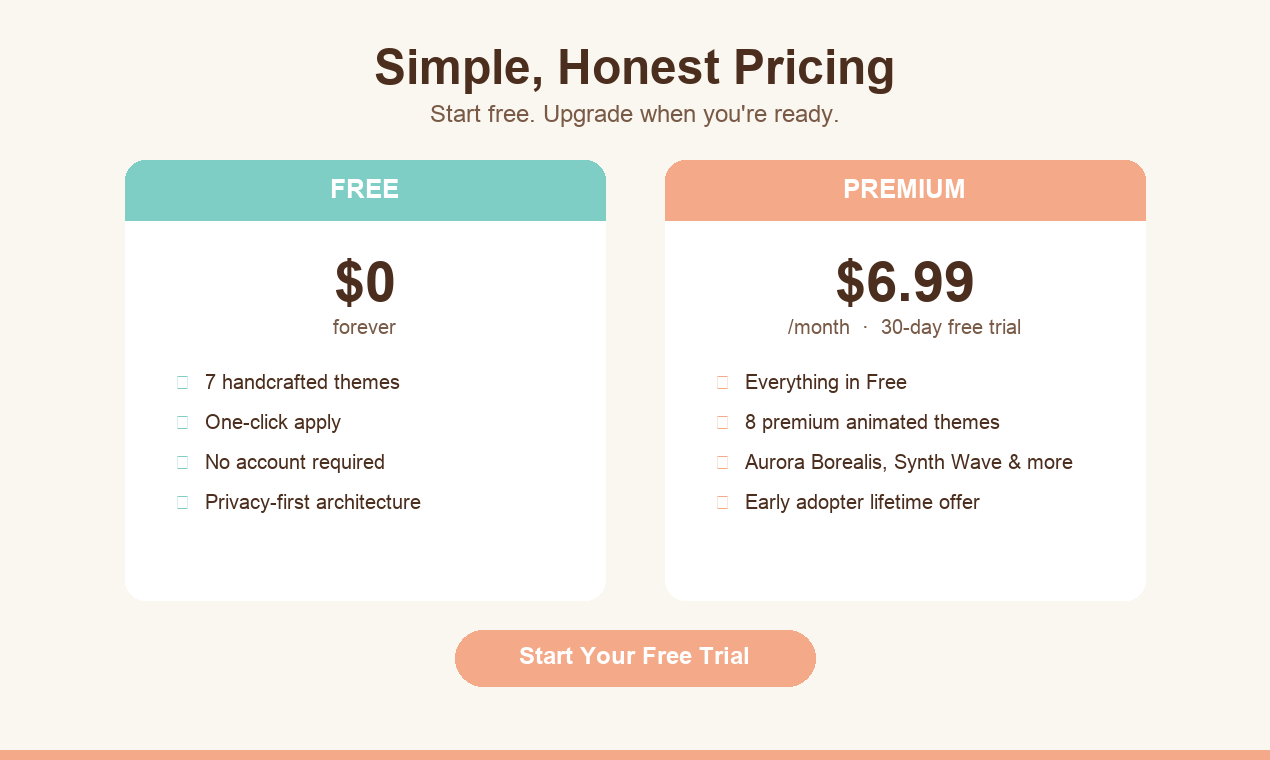
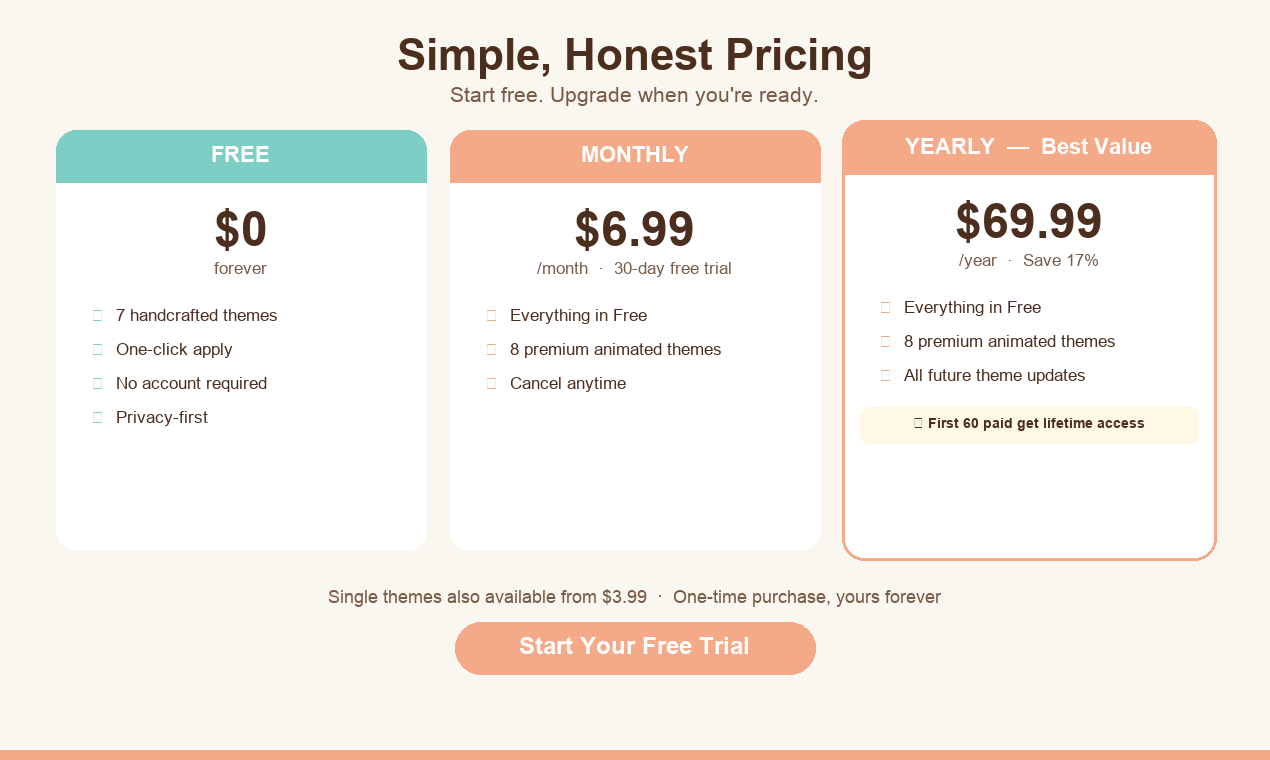
chore(launch): refresh pricing gallery and add GA4 pull script

diff --git a/scripts/pull_ga4.js b/scripts/pull_ga4.js
@@ -1,0 +1,84 @@
+const { GoogleAuth } = require('google-auth-library');
+
+function parseDateArg() {
+  const input = process.argv[2];
+  if (!input) {
+    return new Date().toISOString().slice(0, 10);
+  }
+  if (!/^\d{4}-\d{2}-\d{2}$/.test(input)) {
+    throw new Error('Date must be in YYYY-MM-DD format.');
+  }
+  return input;
+}
+
+async function main() {
+  const targetDate = parseDateArg();
+  const auth = new GoogleAuth({
+    scopes: ['https://www.googleapis.com/auth/analytics.readonly']
+  });
+
+  const client = await auth.getClient();
+  const token = await client.getAccessToken();
+  const accessToken = typeof token === 'string' ? token : token?.token;
+  if (!accessToken) {
+    throw new Error('Unable to acquire Google access token.');
+  }
+
+  const propertyId = '521095252';
+  const url = `https://analyticsdata.googleapis.com/v1beta/properties/${propertyId}:runReport`;
+
+  const headers = {
+    'Authorization': `Bearer ${accessToken}`,
+    'Content-Type': 'application/json'
+  };
+
+  const gate1Body = {
+    dateRanges: [{ startDate: targetDate, endDate: targetDate }],
+    dimensions: [{ name: 'sessionDefaultChannelGroup' }, { name: 'sessionMedium' }],
+    metrics: [{ name: 'sessions' }]
+  };
+
+  const res1 = await fetch(url, {
+    method: 'POST',
+    headers,
+    body: JSON.stringify(gate1Body)
+  });
+  
+  if (!res1.ok) {
+    console.error('Error fetching Gate 1:', await res1.text());
+  } else {
+    const data1 = await res1.json();
+    console.log('--- GATE 1: Traffic Acquisition ---');
+    console.log(JSON.stringify(data1, null, 2));
+  }
+
+  const gate3Body = {
+    dateRanges: [{ startDate: targetDate, endDate: targetDate }],
+    dimensions: [{ name: 'eventName' }],
+    metrics: [{ name: 'eventCount' }],
+    dimensionFilter: {
+      filter: {
+        fieldName: 'eventName',
+        inListFilter: {
+          values: ['trial_start', 'checkout_start', 'purchase_success']
+        }
+      }
+    }
+  };
+
+  const res3 = await fetch(url, {
+    method: 'POST',
+    headers,
+    body: JSON.stringify(gate3Body)
+  });
+
+  if (!res3.ok) {
+    console.error('Error fetching Gate 3:', await res3.text());
+  } else {
+    const data3 = await res3.json();
+    console.log('--- GATE 3: Funnel Events ---');
+    console.log(JSON.stringify(data3, null, 2));
+  }
+}
+
+main().catch(console.error);

diff --git a/asset/launch/create_ph_gallery.py b/asset/launch/create_ph_gallery.py
@@ -218,71 +218,129 @@ def create_gallery_3_privacy():
     print(f"  Gallery 3 (privacy): {path}")
 
 
+def card_centered_text(draw, text, y, card_x, card_w, fnt, fill):
+    """Draw text centered within a card (not the full image)."""
+    bbox = draw.textbbox((0, 0), text, font=fnt)
+    tw = bbox[2] - bbox[0]
+    x = card_x + (card_w - tw) // 2
+    draw.text((x, y), text, font=fnt, fill=fill)
+
+
 def create_gallery_4_pricing():
-    """Pricing card."""
+    """Pricing card — three tiers: Free, Monthly, Yearly (Best Value)."""
     img = Image.new("RGB", (GW, GH), CREAM)
     draw = ImageDraw.Draw(img)
 
     # Header
-    centered_text(draw, "Simple, Honest Pricing", 40, GW, font(FONT_BOLD, 48), CHOCOLATE)
-    centered_text(draw, "Start free. Upgrade when you're ready.", 100, GW, font(FONT_REG, 24), (120, 90, 70))
+    centered_text(draw, "Simple, Honest Pricing", 30, GW, font(FONT_BOLD, 44), CHOCOLATE)
+    centered_text(draw, "Start free. Upgrade when you're ready.", 82, GW, font(FONT_REG, 21), (120, 90, 70))
 
-    # Two pricing cards side by side
-    card_w = 480
-    card_h = 440
-    gap = 60
-    left_x = (GW - 2 * card_w - gap) // 2
-    right_x = left_x + card_w + gap
-    card_y = 160
+    # Three pricing cards
+    card_w = 370
+    card_h = 420
+    gap = 24
+    total_w = 3 * card_w + 2 * gap
+    start_x = (GW - total_w) // 2
+    card_y = 130
 
-    # FREE card
-    draw_rounded_rect(draw, (left_x, card_y, left_x + card_w, card_y + card_h), fill=WHITE, radius=20)
-    draw_rounded_rect(draw, (left_x, card_y, left_x + card_w, card_y + 60), fill=TEAL, radius=20)
-    draw.rectangle(((left_x, card_y + 40), (left_x + card_w, card_y + 60)), fill=TEAL)
-    centered_text(draw, "FREE", card_y + 14, left_x * 2 + card_w, font(FONT_BOLD, 26), WHITE)
-
-    centered_text(draw, "$0", card_y + 90, left_x * 2 + card_w, font(FONT_BOLD, 56), CHOCOLATE)
-    centered_text(draw, "forever", card_y + 155, left_x * 2 + card_w, font(FONT_REG, 20), (120, 90, 70))
-
-    free_features = [
-        "7 handcrafted themes",
-        "One-click apply",
-        "No account required",
-        "Privacy-first architecture",
+    cards = [
+        {
+            "title": "FREE",
+            "color": TEAL,
+            "price": "$0",
+            "subtitle": "forever",
+            "features": [
+                "7 handcrafted themes",
+                "One-click apply",
+                "No account required",
+                "Privacy-first",
+            ],
+        },
+        {
+            "title": "MONTHLY",
+            "color": PEACH,
+            "price": "$6.99",
+            "subtitle": "/month  \u00b7  30-day free trial",
+            "features": [
+                "Everything in Free",
+                "8 premium animated themes",
+                "Cancel anytime",
+            ],
+        },
+        {
+            "title": "YEARLY  \u2014  Best Value",
+            "color": PEACH,
+            "price": "$69.99",
+            "subtitle": "/year  \u00b7  Save 17%",
+            "features": [
+                "Everything in Free",
+                "8 premium animated themes",
+                "All future theme updates",
+            ],
+            "highlight": "\u2605 First 60 paid get lifetime access",
+            "is_featured": True,
+        },
     ]
-    fy = card_y + 210
-    for feat in free_features:
-        draw.text((left_x + 50, fy), "\u2713", font=font(FONT_BOLD, 20), fill=TEAL)
-        draw.text((left_x + 80, fy), feat, font=font(FONT_REG, 20), fill=CHOCOLATE)
-        fy += 40
 
-    # PREMIUM card
-    draw_rounded_rect(draw, (right_x, card_y, right_x + card_w, card_y + card_h), fill=WHITE, radius=20)
-    draw_rounded_rect(draw, (right_x, card_y, right_x + card_w, card_y + 60), fill=PEACH, radius=20)
-    draw.rectangle(((right_x, card_y + 40), (right_x + card_w, card_y + 60)), fill=PEACH)
-    centered_text(draw, "PREMIUM", card_y + 14, right_x * 2 + card_w, font(FONT_BOLD, 26), WHITE)
+    for i, card in enumerate(cards):
+        cx = start_x + i * (card_w + gap)
+        accent = card["color"]
+        is_featured = card.get("is_featured", False)
 
-    centered_text(draw, "$6.99", card_y + 90, right_x * 2 + card_w, font(FONT_BOLD, 56), CHOCOLATE)
-    centered_text(draw, "/month  \u00b7  30-day free trial", card_y + 155, right_x * 2 + card_w, font(FONT_REG, 20), (120, 90, 70))
+        # Featured card: slight vertical offset (raised) and border
+        cy = card_y - 8 if is_featured else card_y
+        ch = card_h + 16 if is_featured else card_h
 
-    premium_features = [
-        "Everything in Free",
-        "8 premium animated themes",
-        "Aurora Borealis, Synth Wave & more",
-        "Early adopter lifetime offer",
-    ]
-    py = card_y + 210
-    for feat in premium_features:
-        draw.text((right_x + 50, py), "\u2713", font=font(FONT_BOLD, 20), fill=PEACH)
-        draw.text((right_x + 80, py), feat, font=font(FONT_REG, 20), fill=CHOCOLATE)
-        py += 40
+        # Card background
+        draw_rounded_rect(draw, (cx, cy, cx + card_w, cy + ch), fill=WHITE, radius=20)
+
+        # Featured border highlight
+        if is_featured:
+            draw_rounded_rect(draw, (cx - 2, cy - 2, cx + card_w + 2, cy + ch + 2), fill=None, radius=22)
+            draw.rounded_rectangle(
+                (cx - 2, cy - 2, cx + card_w + 2, cy + ch + 2),
+                radius=22,
+                outline=PEACH,
+                width=3,
+            )
+
+        # Header stripe
+        draw_rounded_rect(draw, (cx, cy, cx + card_w, cy + 52), fill=accent, radius=20)
+        draw.rectangle(((cx, cy + 36), (cx + card_w, cy + 52)), fill=accent)
+        card_centered_text(draw, card["title"], cy + 12, cx, card_w, font(FONT_BOLD, 22), WHITE)
+
+        # Price
+        card_centered_text(draw, card["price"], cy + 72, cx, card_w, font(FONT_BOLD, 48), CHOCOLATE)
+
+        # Subtitle
+        card_centered_text(draw, card["subtitle"], cy + 128, cx, card_w, font(FONT_REG, 17), (120, 90, 70))
+
+        # Features
+        fy = cy + 175
+        for feat in card["features"]:
+            draw.text((cx + 35, fy), "\u2713", font=font(FONT_BOLD, 17), fill=accent)
+            draw.text((cx + 60, fy), feat, font=font(FONT_REG, 17), fill=CHOCOLATE)
+            fy += 34
+
+        # Highlight line (early adopter callout)
+        if "highlight" in card:
+            fy += 8
+            draw_rounded_rect(draw, (cx + 16, fy, cx + card_w - 16, fy + 36), fill=(255, 248, 230), radius=8)
+            hl_bbox = draw.textbbox((0, 0), card["highlight"], font=font(FONT_BOLD, 14))
+            hl_w = hl_bbox[2] - hl_bbox[0]
+            hl_x = cx + (card_w - hl_w) // 2
+            draw.text((hl_x, fy + 8), card["highlight"], font=font(FONT_BOLD, 14), fill=CHOCOLATE)
+
+    # Single theme note below cards
+    note_y = card_y + card_h + 36
+    centered_text(draw, "Single themes also available from $3.99  \u00b7  One-time purchase, yours forever", note_y, GW, font(FONT_REG, 18), (120, 90, 70))
 
     # Bottom CTA
-    cta_w, cta_h = 360, 56
+    cta_w, cta_h = 360, 52
     cta_x = (GW - cta_w) // 2
-    cta_y = card_y + card_h + 30
-    draw_rounded_rect(draw, (cta_x, cta_y, cta_x + cta_w, cta_y + cta_h), fill=PEACH, radius=28)
-    centered_text(draw, "Start Your Free Trial", cta_y + 12, GW, font(FONT_BOLD, 24), WHITE)
+    cta_y = note_y + 36
+    draw_rounded_rect(draw, (cta_x, cta_y, cta_x + cta_w, cta_y + cta_h), fill=PEACH, radius=26)
+    centered_text(draw, "Start Your Free Trial", cta_y + 10, GW, font(FONT_BOLD, 24), WHITE)
 
     # Bottom bar
     draw.rectangle([(0, GH - 10), (GW, GH)], fill=PEACH)

diff --git a/doc/dev/launch-asset-pack.md b/doc/dev/launch-asset-pack.md
@@ -88,7 +88,7 @@ Alternatives:
 | 2 | Gallery: hero before/after | `ph-gallery-1-hero.png` | [x] Done |
 | 3 | Gallery: theme grid | `ph-gallery-2-themes.png` | [x] Done |
 | 4 | Gallery: privacy callout | `ph-gallery-3-privacy.png` | [x] Done |
-| 5 | Gallery: pricing card | `ph-gallery-4-pricing.png` | [x] Done |
+| 5 | Gallery: pricing card | `ph-gallery-4-pricing.png` | [x] Done (regenerated Feb 20 — now shows Free/Monthly/Yearly with early adopter callout + single theme note) |
 | 6 | Maker comment | See draft below | [x] Finalized |
 | 7 | Tagline | "Make ChatGPT yours." (20 chars) | [x] Finalized |
 
